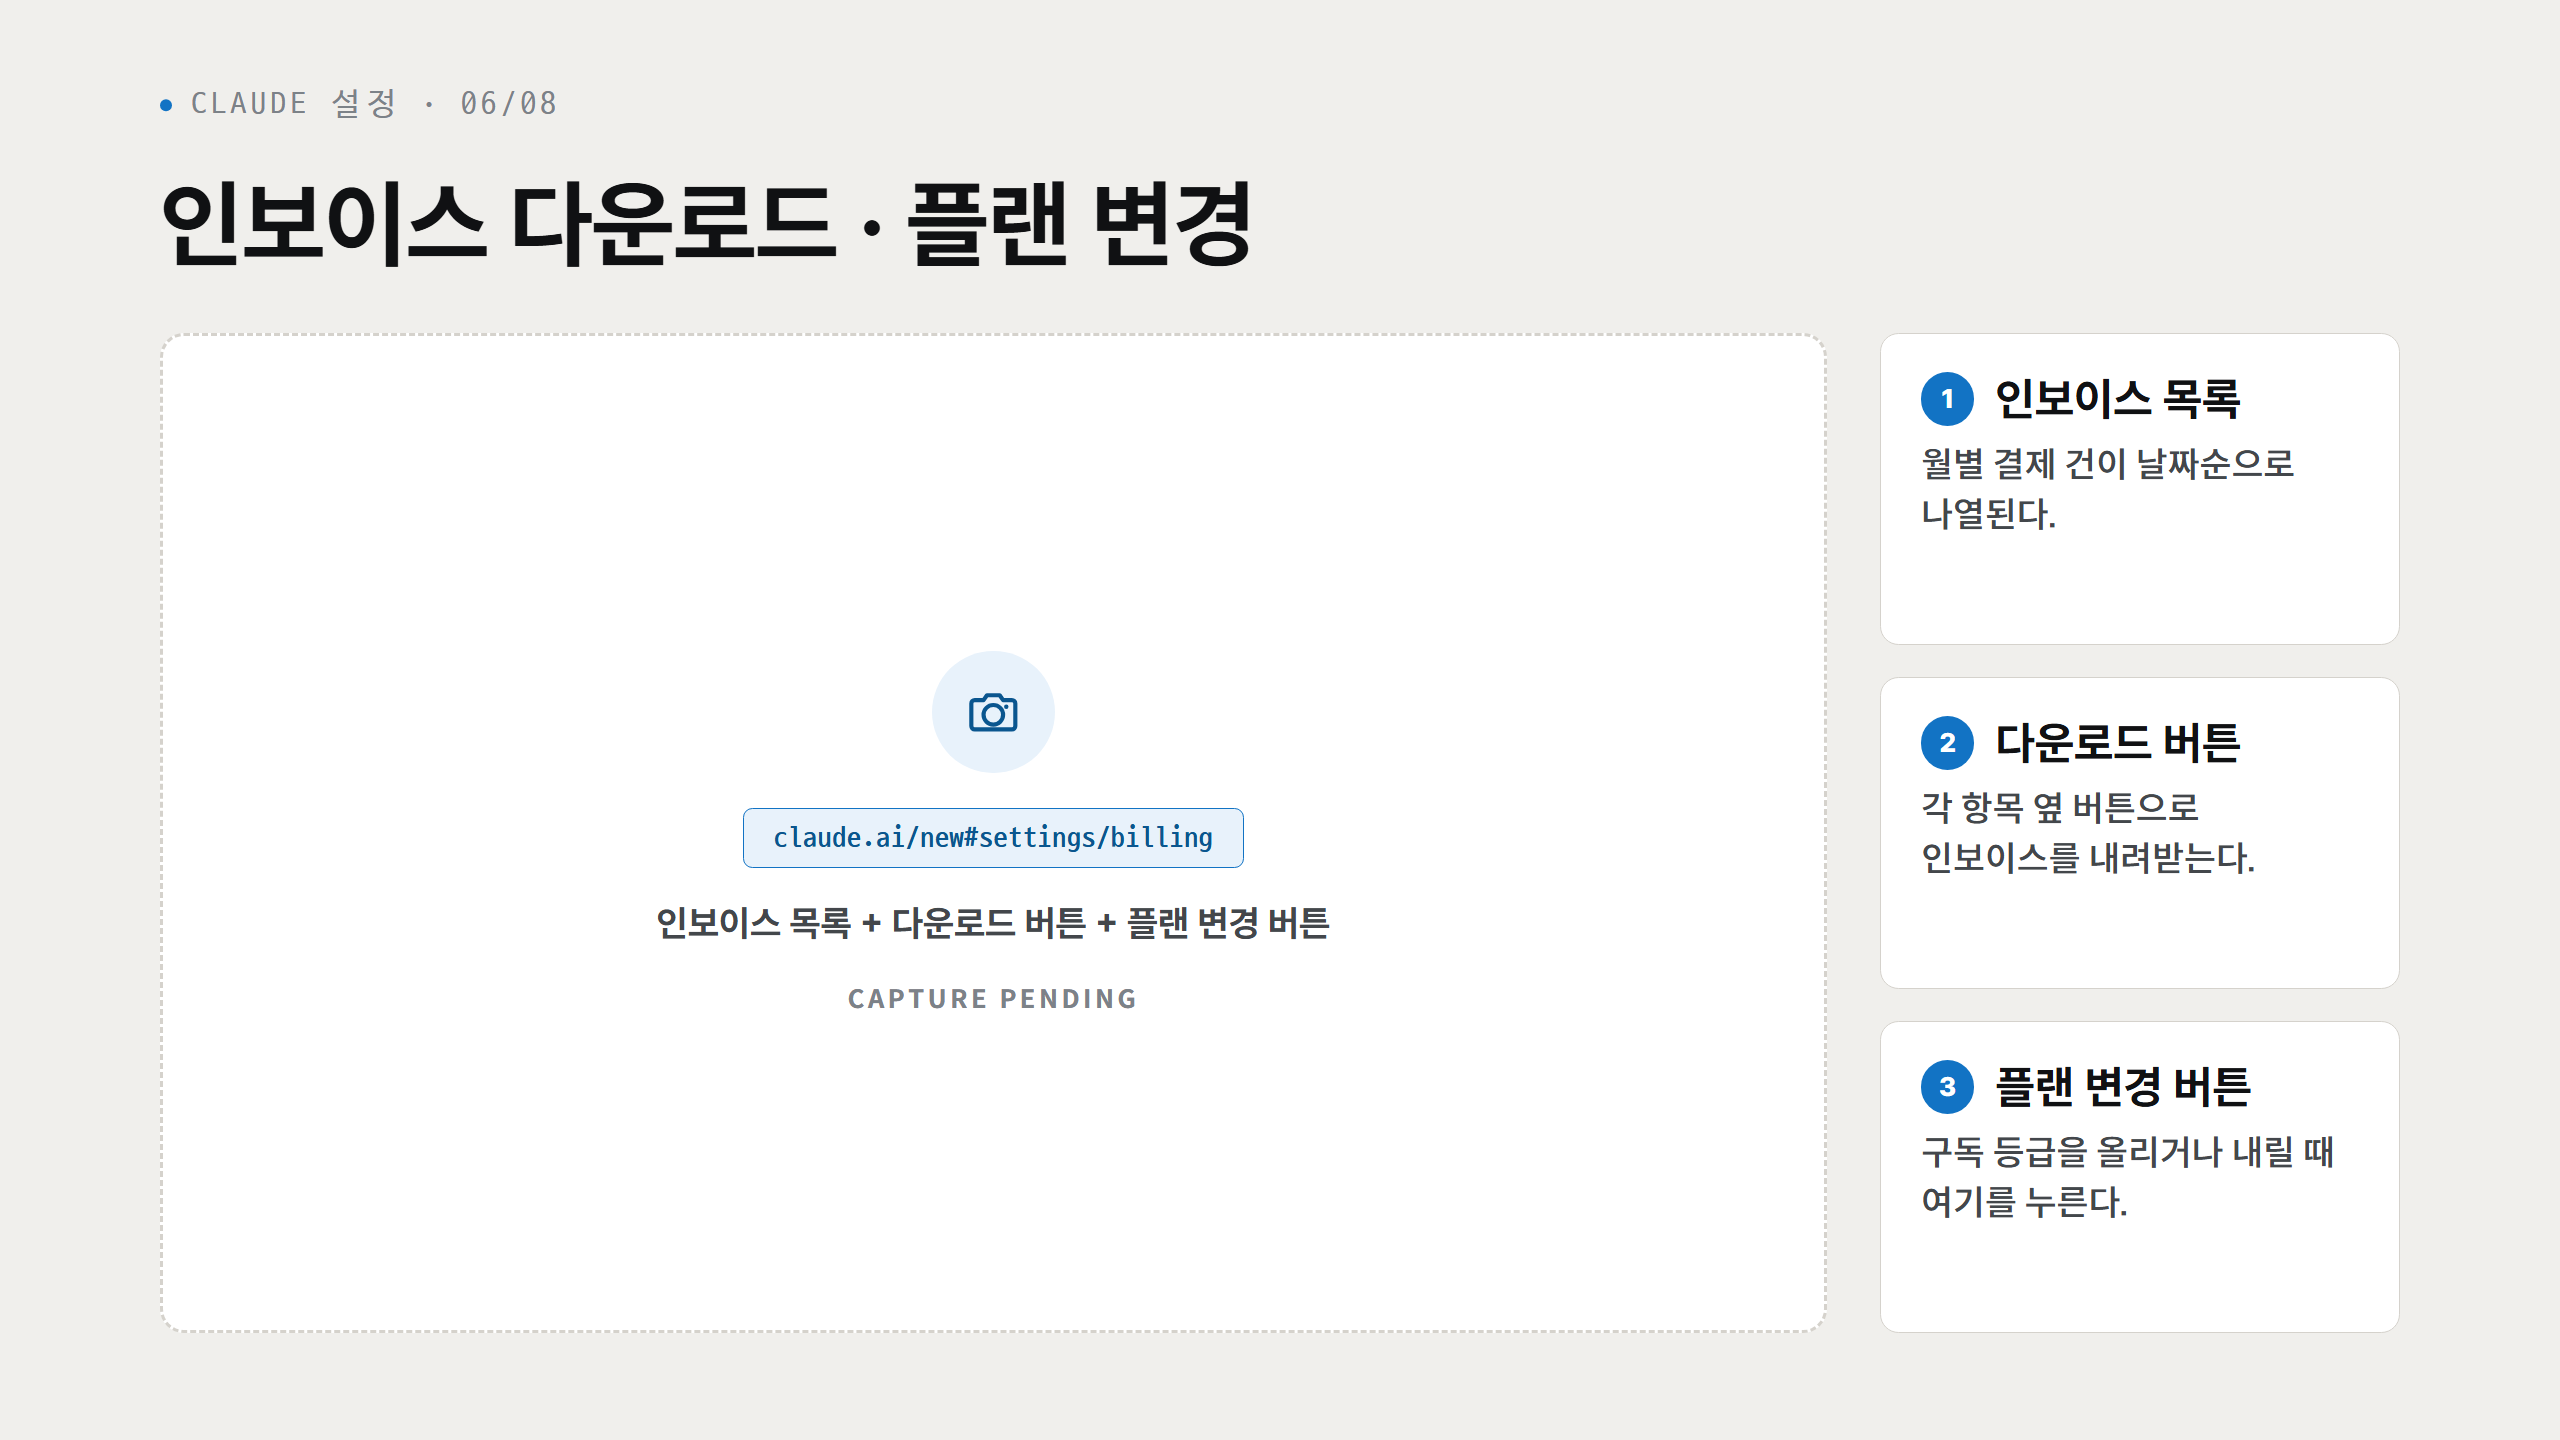
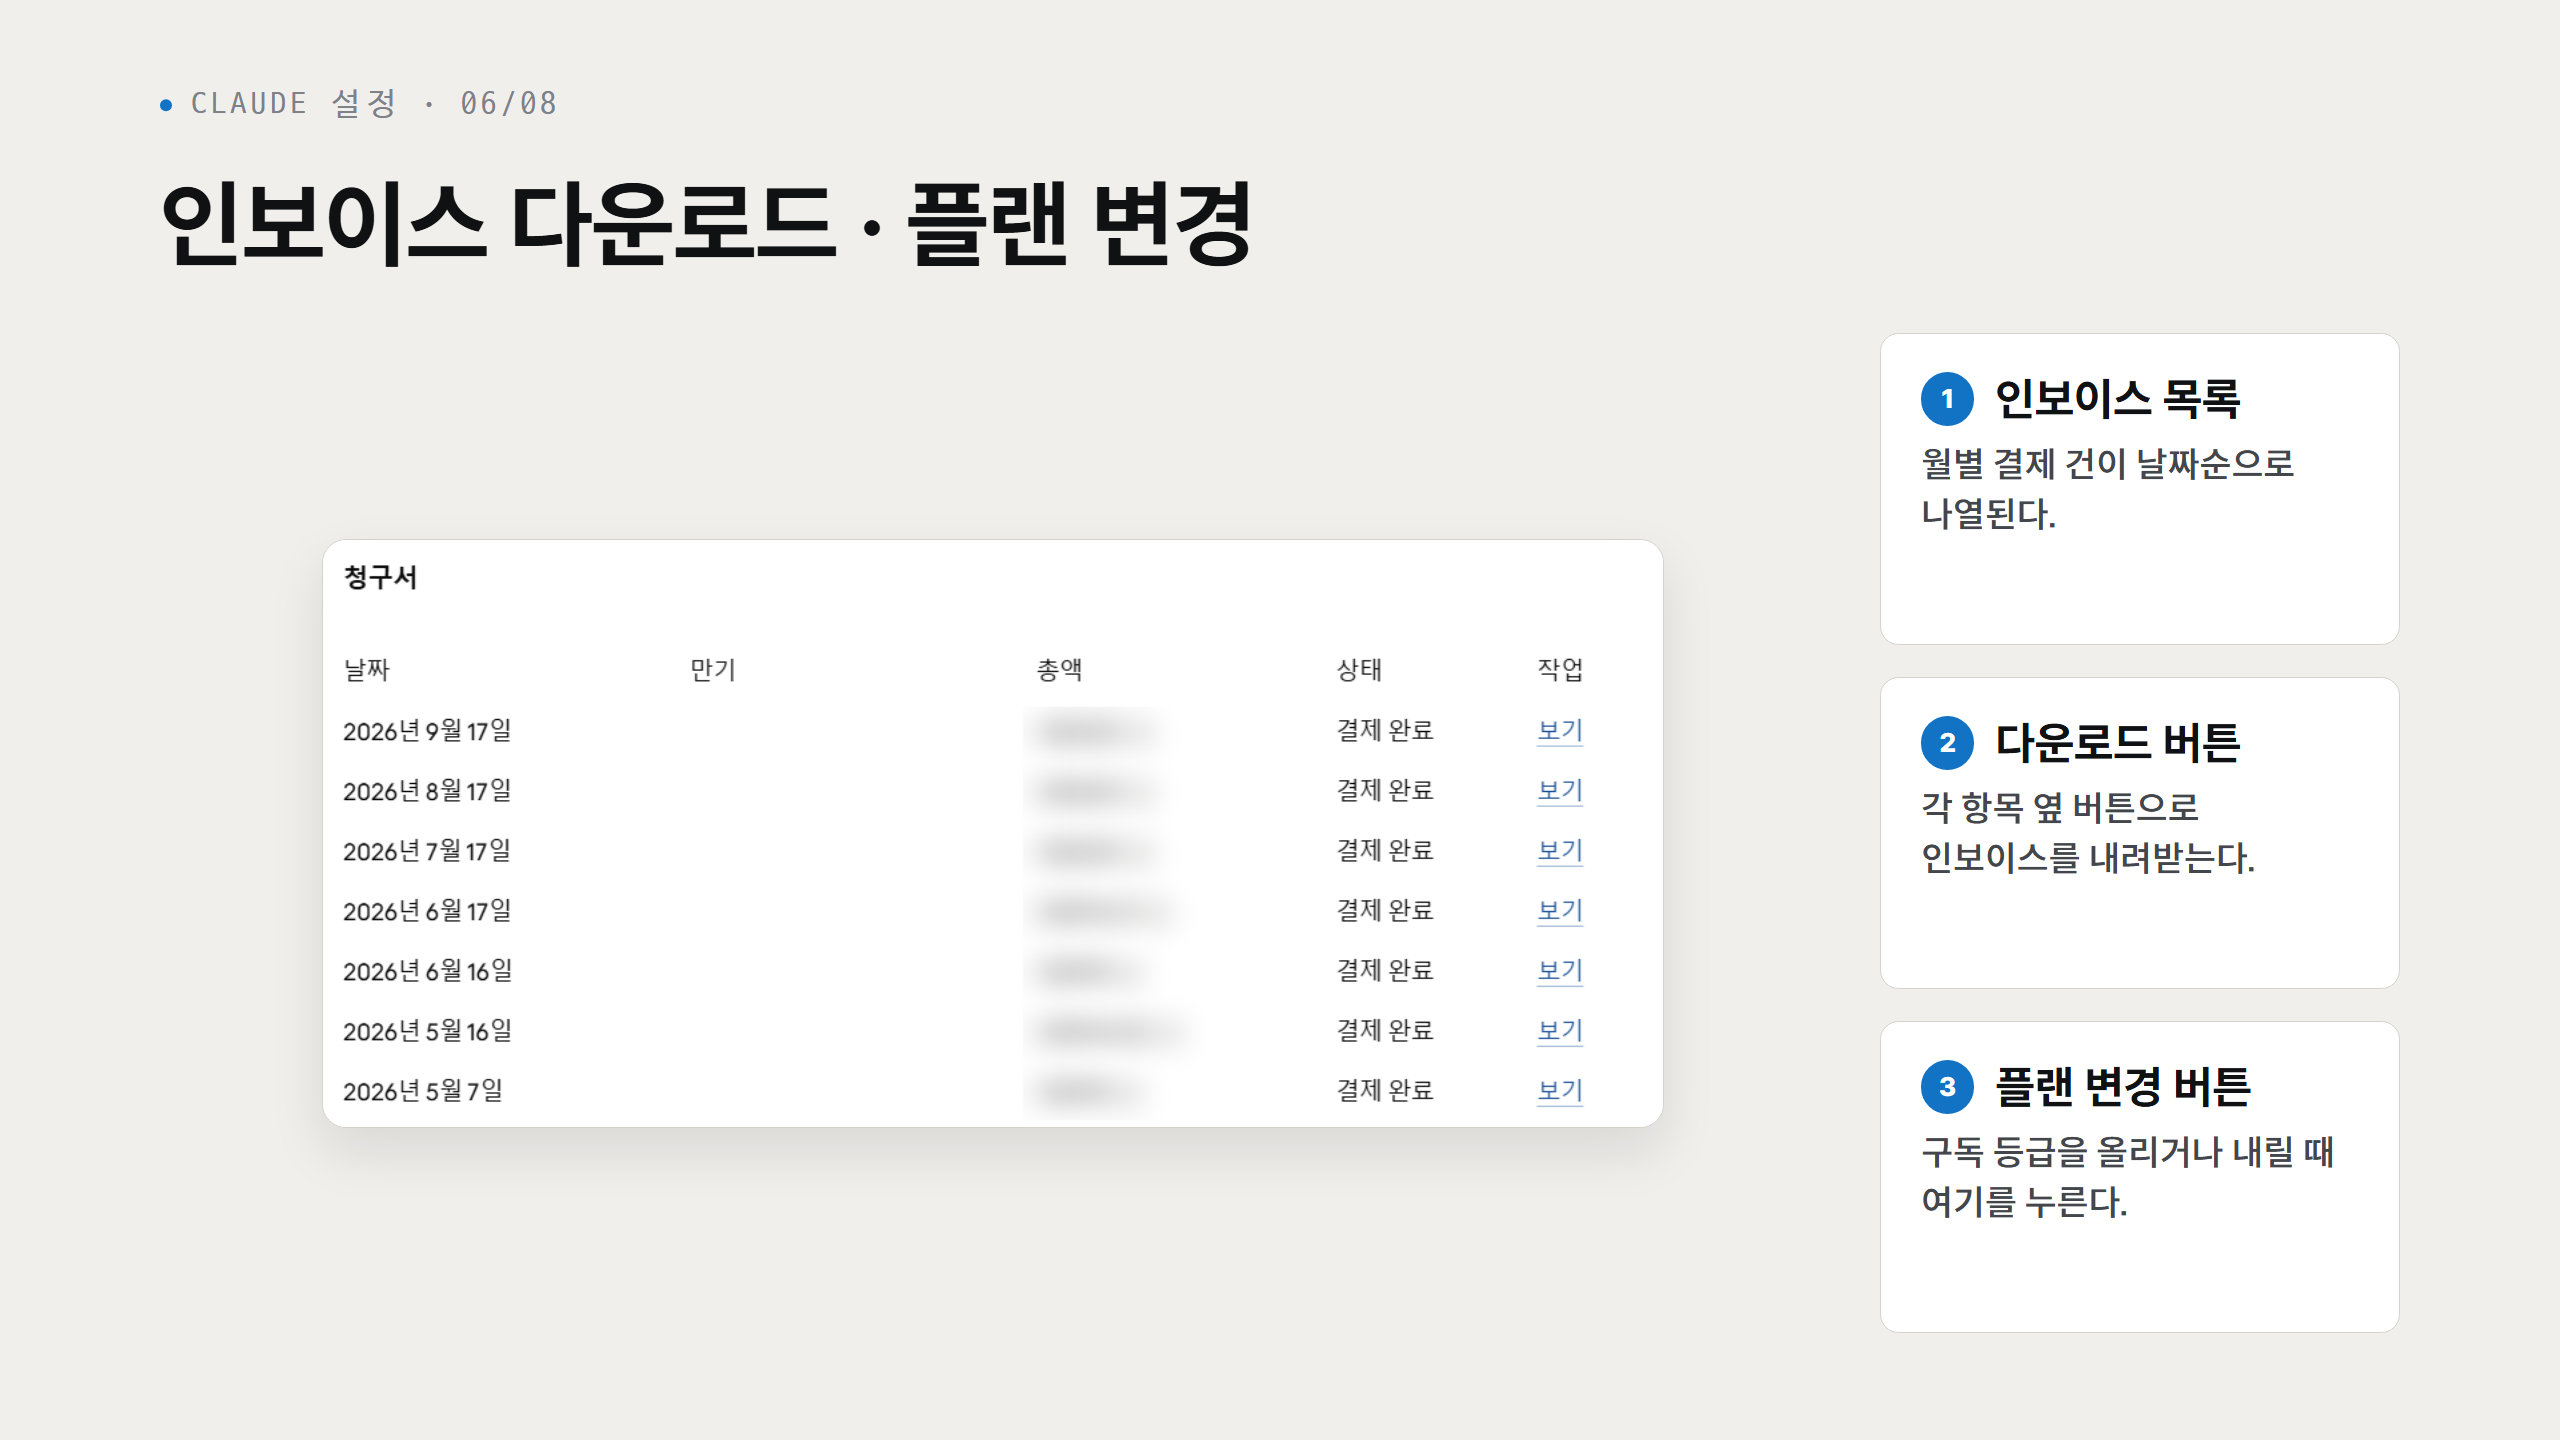
basic 3회차 — claude 설정 파트에 실제 화면 6장
비워 두었던 claude.ai 설정 슬라이드 6장을 실제 화면으로 채운다(설정 메뉴 진입,
개인정보보호, AI 모델 개선 돕기 토글, 결제, 청구서, 사용량).

- 자동화 브라우저로는 claude.ai 로그인이 매번 /login?from=logout&reauth=1 로 튕겼다
  (구글 팝업 3회, 쿠키 비우고 재시도, 매직링크까지 전부). 대신 CEO 가 평소 쓰는
  진짜 크롬 — 이미 로그인돼 있다 — 을 OS 입력으로 조작해 찍었다(browser-native).
- 결제 화면의 카드 끝 4자리와 청구 총액 열은 흐림 처리했다. 수업 슬라이드에
  CEO 결제 정보가 나가면 안 된다.
- 'AI 모델 개선 돕기' 는 이미 꺼져 있어서 계정 설정은 건드리지 않았다.
- 주석의 "우하단 계정 아이콘" 을 "좌하단" 으로 고친다 — 실제 화면에서 계정 버튼은
  사이드바 왼쪽 아래에 있다.

남은 캡처 대기는 claude in chrome 실습 9장 + /login 1장.

Claude-Session: https://claude.ai/code/session_01Srwc7pyL83dNKp728kNW4j

diff --git a/slidekit2/src/specs/s3-account.tsx b/slidekit2/src/specs/s3-account.tsx
@@ -6,6 +6,7 @@
 // 캡처할 URL/상태 한 줄 + AnnotationColumn 으로 이 슬라이드가 짚을 포인트). 캡처가 들어오면 각 슬라이드의
 // CapturePendingBox 를 실제 화면(ShotFrame 류)으로만 교체하면 되도록 자리·포인트를 미리 잡아 둔다.
 import React from "react";
+import { Img, staticFile } from "remotion";
 import { SlideFrame } from "../SlideFrame";
 import { FocusBadge } from "../FocusBadge";
 import { AnnotationColumn } from "../AnnotationColumn";
@@ -22,15 +23,13 @@ const TOTAL = 8;
 // 이 박스 하나만 실제 스크린샷(예: s1-claude-login.tsx 의 ShotFrame 패턴)으로 바꿔치기하면 된다.
 // ------------------------------------------------------------------------------------------------
 
-const CameraGlyph: React.FC<{ size: number; color: string }> = ({ size, color }) => (
-  <svg width={size} height={size} viewBox="0 0 24 24" fill="none">
-    <path d="M3 8.4C3 7.6 3.6 7 4.4 7H8L9.4 5H14.6L16 7H19.6C20.4 7 21 7.6 21 8.4V17.6C21 18.4 20.4 19 19.6 19H4.4C3.6 19 3 18.4 3 17.6Z" stroke={color} strokeWidth={1.7} strokeLinejoin="round" />
-    <circle cx="12" cy="13" r="4" stroke={color} strokeWidth={1.7} />
-    <circle cx="17.3" cy="9.7" r="0.9" fill={color} />
-  </svg>
-);
 
-const CapturePendingBox: React.FC<{ x: number; y: number; width: number; height: number; url: string; capture: string }> = ({ x, y, width, height, url, capture }) => (
+
+
+// Real claude.ai capture in the same 9-col slot the placeholder used. Taken from the CEO's own
+// logged-in Chrome over OS-level input (browser-native), so nothing here is a mockup. Billing amounts
+// and the card's last four are blurred before the file ever reaches this folder.
+const RealShot: React.FC<{ x: number; y: number; width: number; height: number; src: string }> = ({ x, y, width, height, src }) => (
   <div
     style={{
       position: "absolute",
@@ -38,40 +37,23 @@ const CapturePendingBox: React.FC<{ x: number; y: number; width: number; height:
       top: y,
       width,
       height,
-      boxSizing: "border-box",
-      border: `2.5px dashed ${COLORS.line}`,
-      borderRadius: RADIUS.outer,
-      background: COLORS.paper2,
       display: "flex",
-      flexDirection: "column",
       alignItems: "center",
       justifyContent: "center",
-      gap: 26,
-      padding: "40px 56px",
     }}
   >
-    <div style={{ width: 92, height: 92, borderRadius: "50%", background: COLORS.accentWash, display: "flex", alignItems: "center", justifyContent: "center" }}>
-      <CameraGlyph size={44} color={COLORS.accentDeep} />
-    </div>
-    <div
+    <Img
+      src={staticFile(src)}
       style={{
-        fontFamily: FONTS.term,
-        fontWeight: 600,
-        fontSize: 22,
-        color: COLORS.accentDeep,
-        background: COLORS.accentWash,
-        border: `1px solid ${COLORS.accent}`,
-        borderRadius: RADIUS.inner,
-        padding: "9px 22px",
-        wordBreak: "break-all",
-        textAlign: "center",
-        maxWidth: "92%",
+        maxWidth: "100%",
+        maxHeight: "100%",
+        objectFit: "contain",
+        border: `1px solid ${COLORS.line}`,
+        borderRadius: RADIUS.outer,
+        boxShadow: "0 18px 40px rgba(16,17,19,0.10)",
+        background: COLORS.paper2,
       }}
-    >
-      {url}
-    </div>
-    <div style={{ fontFamily: FONTS.display, fontWeight: 700, fontSize: 27, color: COLORS.ink2, textAlign: "center", wordBreak: "keep-all", maxWidth: "88%" }}>{capture}</div>
-    <div style={{ fontFamily: FONTS.body, fontWeight: 700, fontSize: 19, color: COLORS.ink3, letterSpacing: "0.14em" }}>CAPTURE PENDING</div>
+    />
   </div>
 );
 
@@ -207,21 +189,14 @@ const Slide01: React.FC = () => {
 
 const Slide02: React.FC = () => (
   <SlideFrame index={2} total={TOTAL} eyebrow={EYEBROW} title="설정 메뉴 진입">
-    <CapturePendingBox
-      x={CAP_X}
-      y={BODY_Y}
-      width={CAP_W}
-      height={BODY_H}
-      url="claude.ai/new — 우하단 프로필 클릭"
-      capture="프로필 클릭 → 설정 메뉴가 펼쳐진 상태"
-    />
+    <RealShot x={CAP_X} y={BODY_Y} width={CAP_W} height={BODY_H} src="slides/shots/account_설정_진입.png" />
     <AnnotationColumn
       x={ANNO_X}
       y={BODY_Y}
       width={ANNO_W}
       height={BODY_H}
       items={[
-        { number: 1, head: "프로필 아이콘 위치", body: "화면 우하단 계정 아이콘에서 시작한다." },
+        { number: 1, head: "프로필 아이콘 위치", body: "화면 좌하단 계정 아이콘에서 시작한다." },
         { number: 2, head: "펼쳐지는 메뉴 항목", body: "설정 · 로그아웃 등 하위 항목이 나타난다." },
         { number: 3, head: "설정으로 이동", body: "여기서 데이터/청구/사용량 화면으로 각각 들어간다." },
       ]}
@@ -236,14 +211,7 @@ const Slide02: React.FC = () => (
 
 const Slide03: React.FC = () => (
   <SlideFrame index={3} total={TOTAL} eyebrow={EYEBROW} title="데이터 및 개인정보 보호">
-    <CapturePendingBox
-      x={CAP_X}
-      y={BODY_Y}
-      width={CAP_W}
-      height={BODY_H}
-      url="claude.ai/new#settings/data-privacy-controls"
-      capture="데이터 및 개인정보 보호 화면 전체"
-    />
+    <RealShot x={CAP_X} y={BODY_Y} width={CAP_W} height={BODY_H} src="slides/shots/account_privacy_화면.png" />
     <AnnotationColumn
       x={ANNO_X}
       y={BODY_Y}
@@ -265,14 +233,7 @@ const Slide03: React.FC = () => (
 
 const Slide04: React.FC = () => (
   <SlideFrame index={4} total={TOTAL} eyebrow={EYEBROW} title="AI 모델 개선 돕기 끄기">
-    <CapturePendingBox
-      x={CAP_X}
-      y={BODY_Y}
-      width={CAP_W}
-      height={BODY_H}
-      url="claude.ai/new#settings/data-privacy-controls"
-      capture="'AI 모델 개선 돕기' 토글 off 상태 확대"
-    />
+    <RealShot x={CAP_X} y={BODY_Y} width={CAP_W} height={BODY_H} src="slides/shots/account_privacy_off.png" />
     <AnnotationColumn
       x={ANNO_X}
       y={BODY_Y}
@@ -294,14 +255,7 @@ const Slide04: React.FC = () => (
 
 const Slide05: React.FC = () => (
   <SlideFrame index={5} total={TOTAL} eyebrow={EYEBROW} title="요금 및 청구">
-    <CapturePendingBox
-      x={CAP_X}
-      y={BODY_Y}
-      width={CAP_W}
-      height={BODY_H}
-      url="claude.ai/new#settings/billing"
-      capture="요금 및 청구 화면 전체 (결제수단 마스킹)"
-    />
+    <RealShot x={CAP_X} y={BODY_Y} width={CAP_W} height={BODY_H} src="slides/shots/account_billing_화면.png" />
     <AnnotationColumn
       x={ANNO_X}
       y={BODY_Y}
@@ -323,14 +277,7 @@ const Slide05: React.FC = () => (
 
 const Slide06: React.FC = () => (
   <SlideFrame index={6} total={TOTAL} eyebrow={EYEBROW} title="인보이스 다운로드 · 플랜 변경">
-    <CapturePendingBox
-      x={CAP_X}
-      y={BODY_Y}
-      width={CAP_W}
-      height={BODY_H}
-      url="claude.ai/new#settings/billing"
-      capture="인보이스 목록 + 다운로드 버튼 + 플랜 변경 버튼"
-    />
+    <RealShot x={CAP_X} y={BODY_Y} width={CAP_W} height={BODY_H} src="slides/shots/account_billing_인보이스.png" />
     <AnnotationColumn
       x={ANNO_X}
       y={BODY_Y}
@@ -352,14 +299,7 @@ const Slide06: React.FC = () => (
 
 const Slide07: React.FC = () => (
   <SlideFrame index={7} total={TOTAL} eyebrow={EYEBROW} title="사용량 화면">
-    <CapturePendingBox
-      x={CAP_X}
-      y={BODY_Y}
-      width={CAP_W}
-      height={BODY_H}
-      url="claude.ai/new#settings/usage"
-      capture="사용량 화면 전체"
-    />
+    <RealShot x={CAP_X} y={BODY_Y} width={CAP_W} height={BODY_H} src="slides/shots/account_usage_화면.png" />
     <AnnotationColumn
       x={ANNO_X}
       y={BODY_Y}
